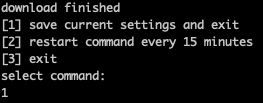
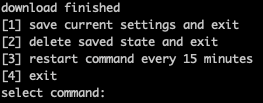
changed documentation

diff --git a/README.md b/README.md
@@ -25,14 +25,18 @@ Man kann nun in Unterverzeichnisse navigieren oder das aktuell dargestellte Verz
 4 - die Dateien des ausgewählten Verzeichnisses und aller Unterverzeichnisse herunterzuladen und nach erfolgreichem Download auf Foxdrive zu löschen</br>
 ![Select Command](./assets/select_command.png)
 * Nach Ausführung des Kommandos besteht die die Wahl zwischen folgenden Optionen:</br>
-1 - Speicher des aktuellen Zustands</br>
-2 - Wiederholen des gewählten Kommandos alle 15 Minuten</br>
-3 - Beenden des Programms</br>
+1 - Speichern des aktuellen Zustands. Das Programm wird danach beendet.</br>
+Der gespeicherte Status wird beim nächsten Start des Programms automatisch geladen. Der ausgewählte Inventareintrag, die Ablage und das gewählte Kommanda werden sofort nach dem Start ausgewählt und ausgeführt. Sollte der Login abgelaufen sein, fordert das Programm zu einem erneuten Login auf.</br>
+2 - Löschen des gespeicherten Zustands. Das Programm wird danach beendet.</br>
+3 - Wiederholen des gewählten Kommandos alle 15 Minuten</br>
+4 - Beenden des Programms</br>
 ![End](./assets/select_endgame.png)
+
+
 
 ## geplante Features
 
-Wiederherstellen eines gespeicherter Zustands.
+--
 ## Haftungsausschluss
 
 Die Nutzung von SF-Downloader geschieht auf eigenes Risiko.

diff --git a/release-notes.md b/release-notes.md
@@ -1,6 +1,6 @@
 # Funktionen
 
-## v0.2.3
+## v0.2.4
 
 - Login
 - Auswählen eines Schülers
@@ -9,4 +9,6 @@
 - Download aller Dateien der ausgewählten Ablage und alle Unterablagen
 - Löschen aller erfolgreich heruntergeladenen Dateien
 - Speichern des Zustands
+- Löschen es gespeicherten Zustands
 - Zyklisches Wiederholen des ausgewählten Kommandos
+- Laden eines gespeicherten Zustands beim Start der Applikation
